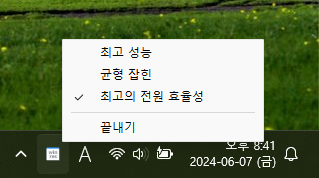
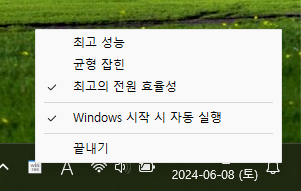
자동 실행 기능 추가

diff --git a/settings/registry.go b/settings/registry.go
@@ -1,0 +1,60 @@
+package settings
+
+import (
+	"fmt"
+	"power-mode-tray/libs"
+
+	"golang.org/x/sys/windows/registry"
+)
+
+const registryKey = `Software\Microsoft\Windows\CurrentVersion\Run`
+const autoStartKey = "PowerModeTray"
+
+func AutoStartEnabled() bool {
+	k, err := registry.OpenKey(registry.CURRENT_USER, registryKey, registry.QUERY_VALUE)
+	if err != nil {
+		fmt.Printf("%s\n", err)
+		return false
+	}
+	defer k.Close()
+
+	s, _, err := k.GetStringValue(autoStartKey)
+	if err != nil {
+		fmt.Printf("%s\n", err)
+		return false
+	}
+
+	currentAppPath := libs.GetModuleFileName()
+	return s == currentAppPath
+}
+
+func AutoStartEnable() {
+	k, err := registry.OpenKey(registry.CURRENT_USER, registryKey, registry.CREATE_SUB_KEY|registry.QUERY_VALUE|registry.SET_VALUE)
+	if err != nil {
+		fmt.Printf("%s\n", err)
+		return
+	}
+	defer k.Close()
+
+	currentAppPath := libs.GetModuleFileName()
+	err2 := k.SetStringValue(autoStartKey, currentAppPath)
+	if err2 != nil {
+		fmt.Printf("%s\n", err2)
+		return
+	}
+}
+
+func AutoStartDisable() {
+	k, err := registry.OpenKey(registry.CURRENT_USER, registryKey, registry.CREATE_SUB_KEY|registry.QUERY_VALUE|registry.SET_VALUE)
+	if err != nil {
+		fmt.Printf("%s\n", err)
+		return
+	}
+	defer k.Close()
+
+	err2 := k.DeleteValue(autoStartKey)
+	if err2 != nil {
+		fmt.Printf("%s", err2)
+		return
+	}
+}

diff --git a/main.go b/main.go
@@ -3,6 +3,7 @@ package main
 import (
 	_ "embed"
 	"power-mode-tray/libs"
+	"power-mode-tray/settings"
 	"syscall"
 
 	"github.com/getlantern/systray"
@@ -29,6 +30,10 @@ func onReady() {
 
 	systray.AddSeparator()
 
+	menuAutoStart := systray.AddMenuItemCheckbox("Windows 시작 시 자동 실행", "PowerModeTray가 자동으로 시작됩니다.", settings.AutoStartEnabled())
+
+	systray.AddSeparator()
+
 	menuClose := systray.AddMenuItem("끝내기", "트레이를 종료합니다.")
 
 	menuOptions := map[syscall.GUID]systray.MenuItem{
@@ -46,6 +51,14 @@ func onReady() {
 				libs.PowerSetActiveOverlayScheme(&libs.PowerModeBetterPerformance)
 			case <-menuBetterBattery.ClickedCh:
 				libs.PowerSetActiveOverlayScheme(&libs.PowerModeBetterBattery)
+			case <-menuAutoStart.ClickedCh:
+				if settings.AutoStartEnabled() {
+					menuAutoStart.Uncheck()
+					settings.AutoStartDisable()
+				} else {
+					menuAutoStart.Check()
+					settings.AutoStartEnable()
+				}
 			case <-menuClose.ClickedCh:
 				systray.Quit()
 			}

diff --git a/libs/kernel32.go b/libs/kernel32.go
@@ -1,0 +1,16 @@
+package libs
+
+import (
+	"syscall"
+
+	"golang.org/x/sys/windows"
+)
+
+func GetModuleFileName() string {
+	buf := make([]uint16, 1024)
+	ret, err := windows.GetModuleFileName(0, &buf[0], 1024)
+	if ret == 0 || err != nil {
+		return ""
+	}
+	return syscall.UTF16ToString(buf)
+}

diff --git a/README.md b/README.md
@@ -9,8 +9,10 @@
 
 ## TODOs
 
-* 윈도우 시작 시 자동실행
 * 앱 아이콘 추가
+* 전원모드 상태일때 절전모드 옵션 추가
+* 다크모드 지원
+* 다국어 지원
 
 ## dependencies
 
